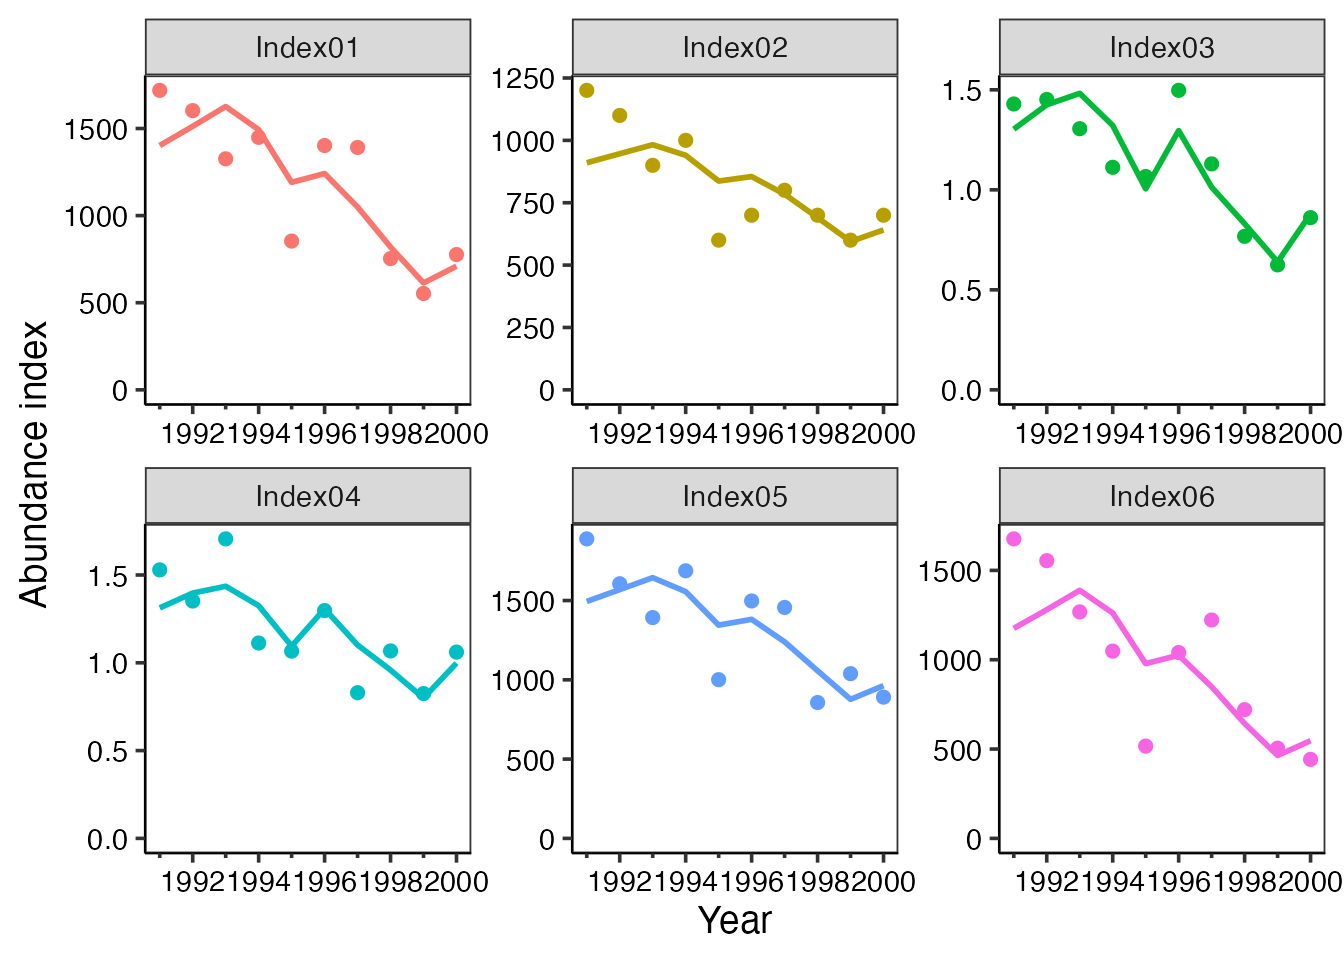
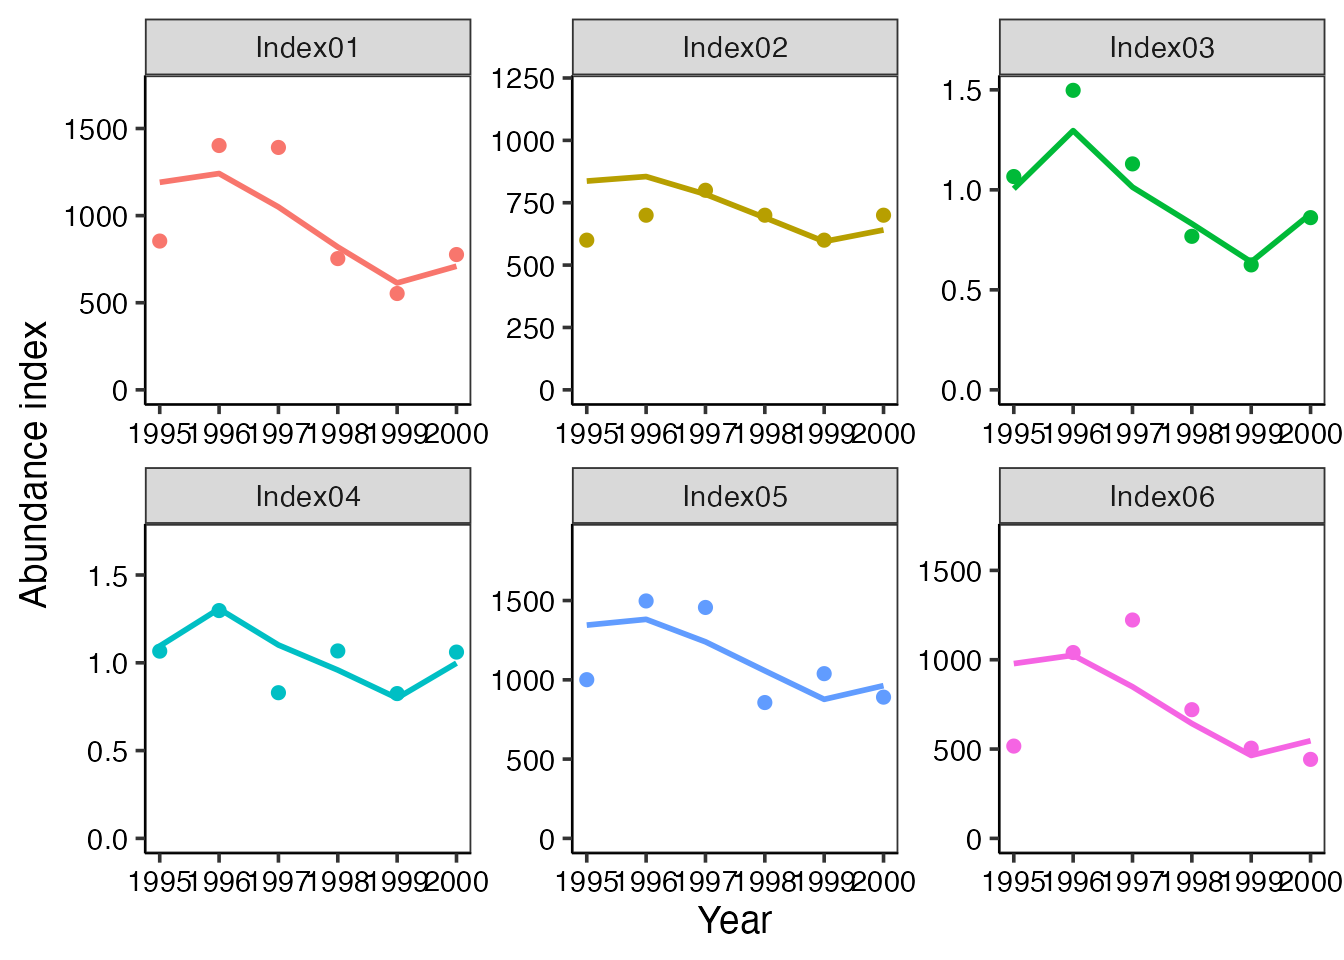
Built site for frasyr@2.4.0.0: 97106f8

diff --git a/articles/Diagnostics-for-VPA.html b/articles/Diagnostics-for-VPA.html
@@ -76,7 +76,7 @@
       <h1 data-toc-skip>VPAモデル診断スクリプト</h1>
                         <h4 data-toc-skip class="author">濵邉昂平・市野川桃子</h4>
             
-            <h4 data-toc-skip class="date">2024-07-18</h4>
+            <h4 data-toc-skip class="date">2024-07-19</h4>
       
 
       <div class="hidden name"><code>Diagnostics-for-VPA.Rmd</code></div>

diff --git a/articles/vpa.html b/articles/vpa.html
@@ -76,7 +76,7 @@
       <h1 data-toc-skip>VPA関数を使った資源量推定</h1>
                         <h4 data-toc-skip class="author">市野川桃子</h4>
             
-            <h4 data-toc-skip class="date">2024-07-18</h4>
+            <h4 data-toc-skip class="date">2024-07-19</h4>
       
 
       <div class="hidden name"><code>vpa.Rmd</code></div>

diff --git a/articles/fittingSR.html b/articles/fittingSR.html
@@ -77,7 +77,7 @@
                         <h4 data-toc-skip class="author">Shota Nisijima
 &amp; Shin Fukui</h4>
             
-            <h4 data-toc-skip class="date">2024-07-18</h4>
+            <h4 data-toc-skip class="date">2024-07-19</h4>
       
 
       <div class="hidden name"><code>fittingSR.Rmd</code></div>
